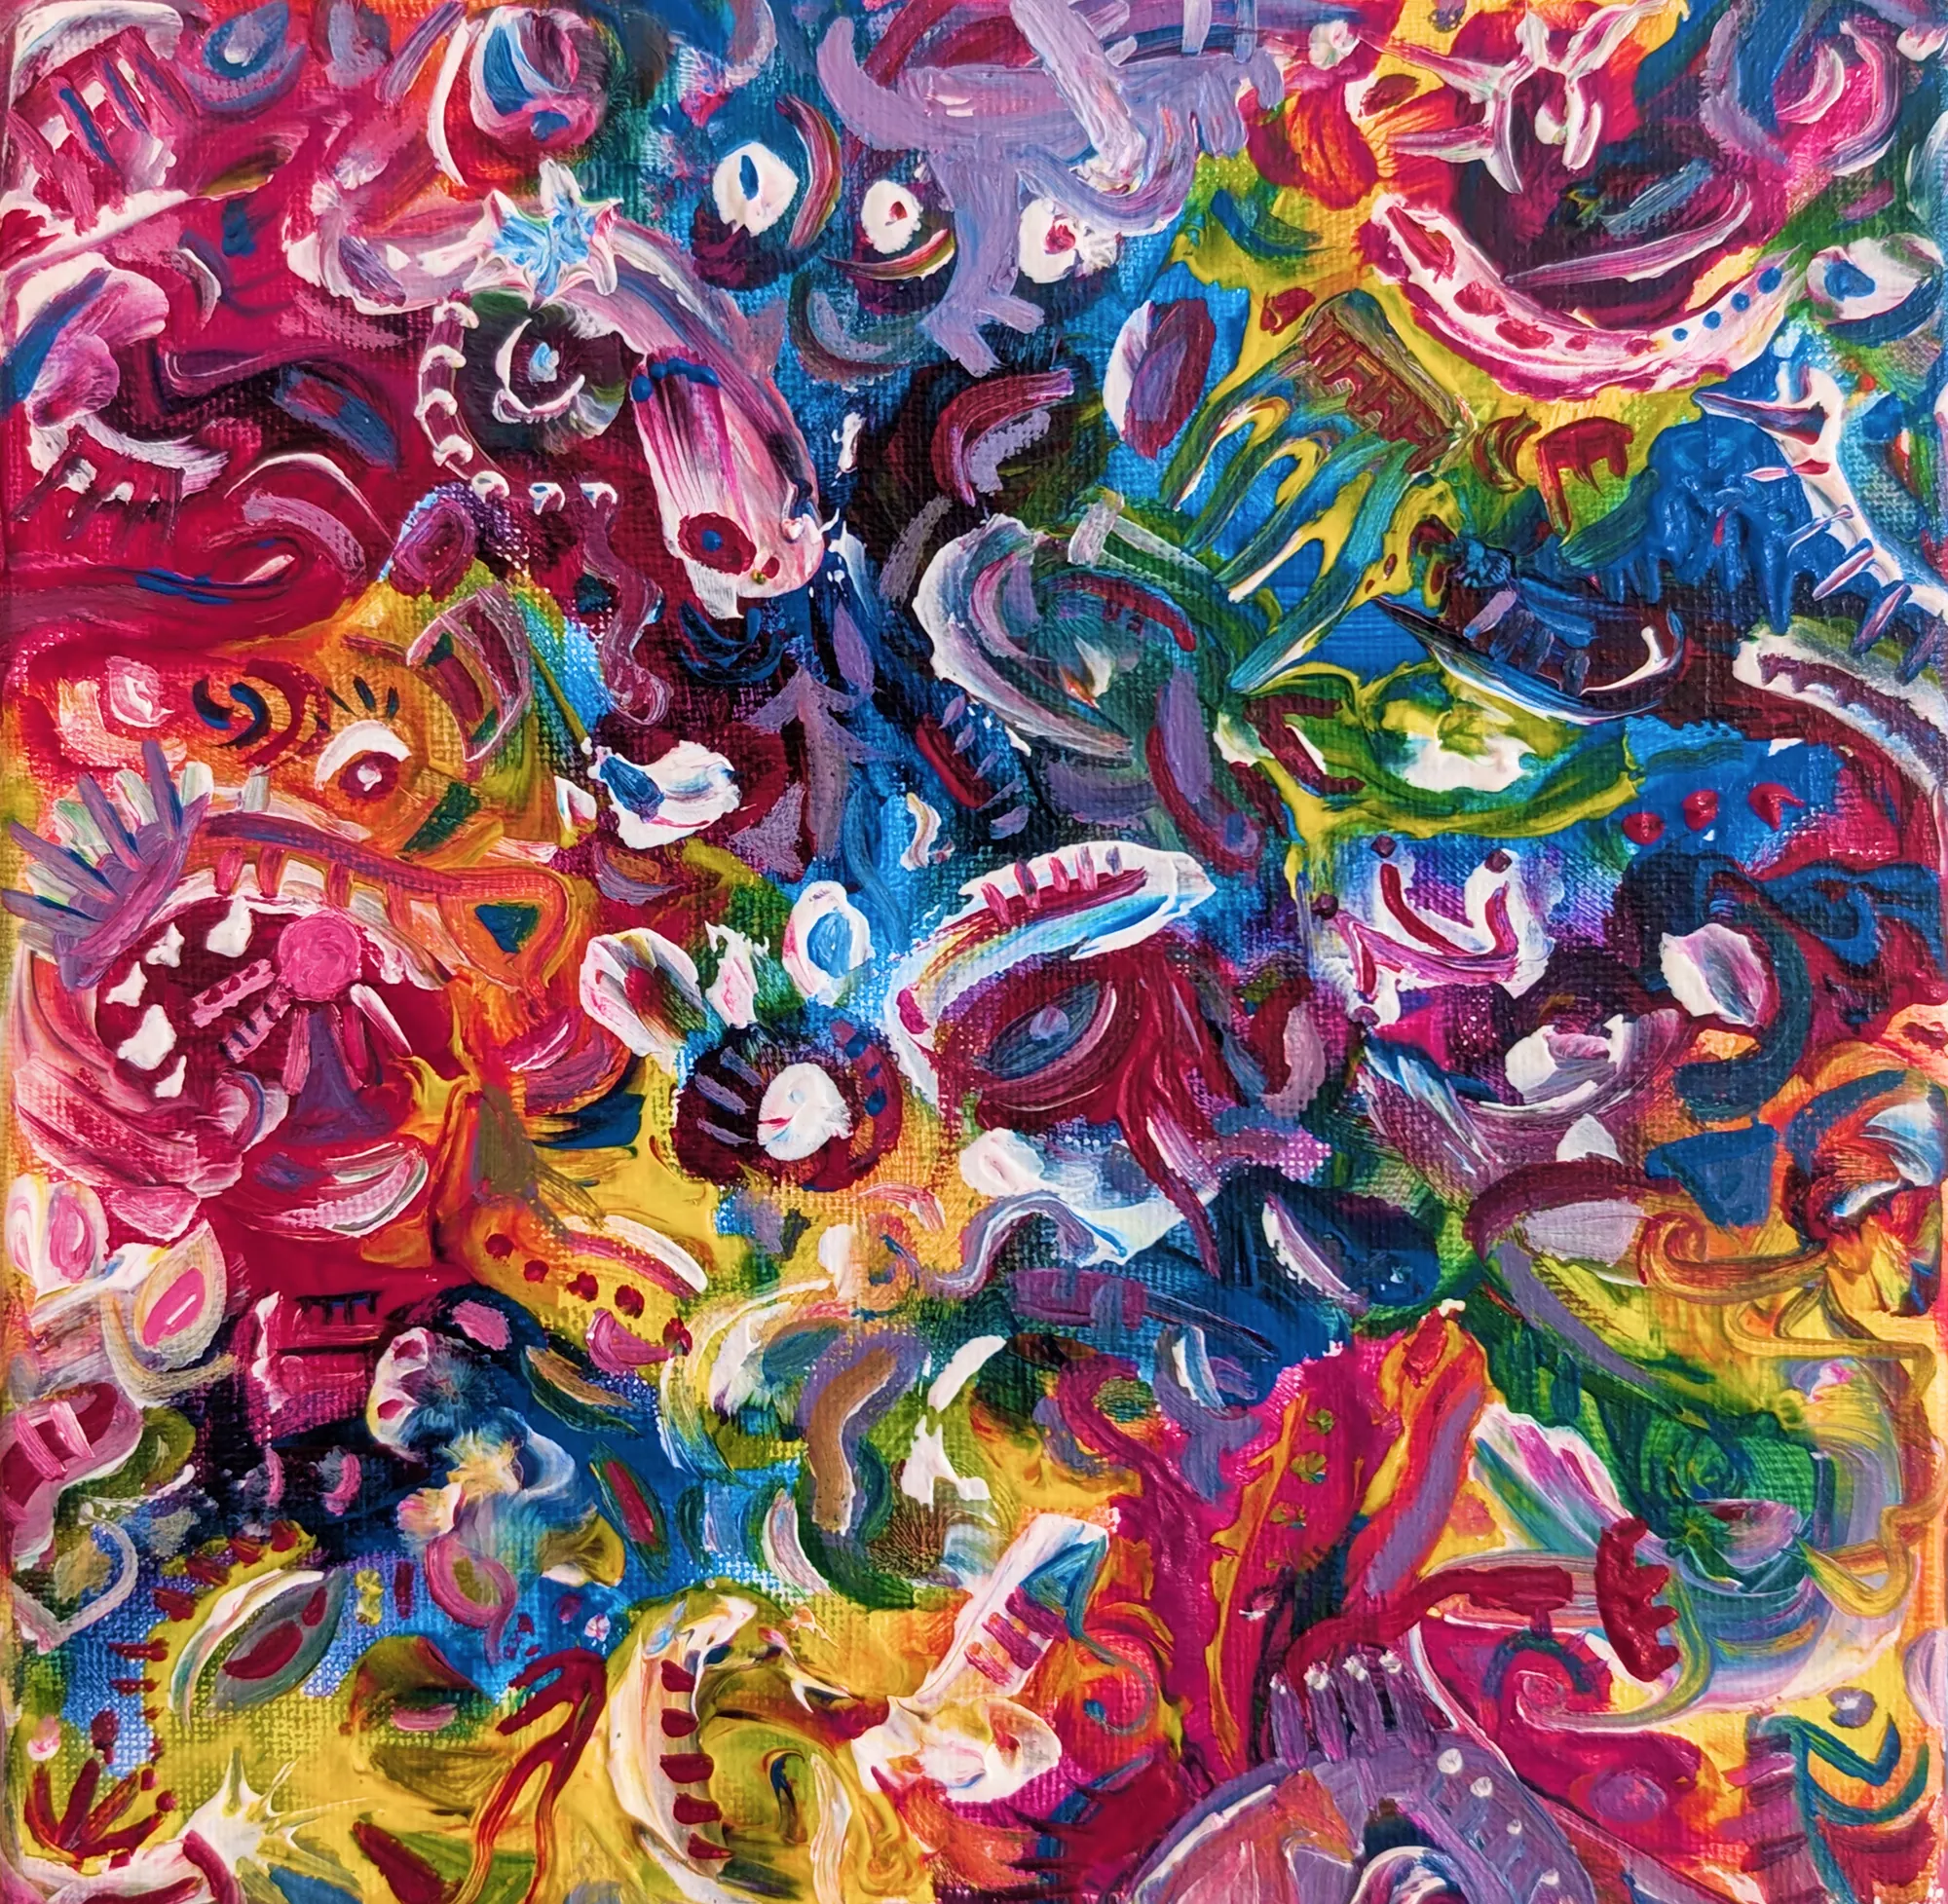
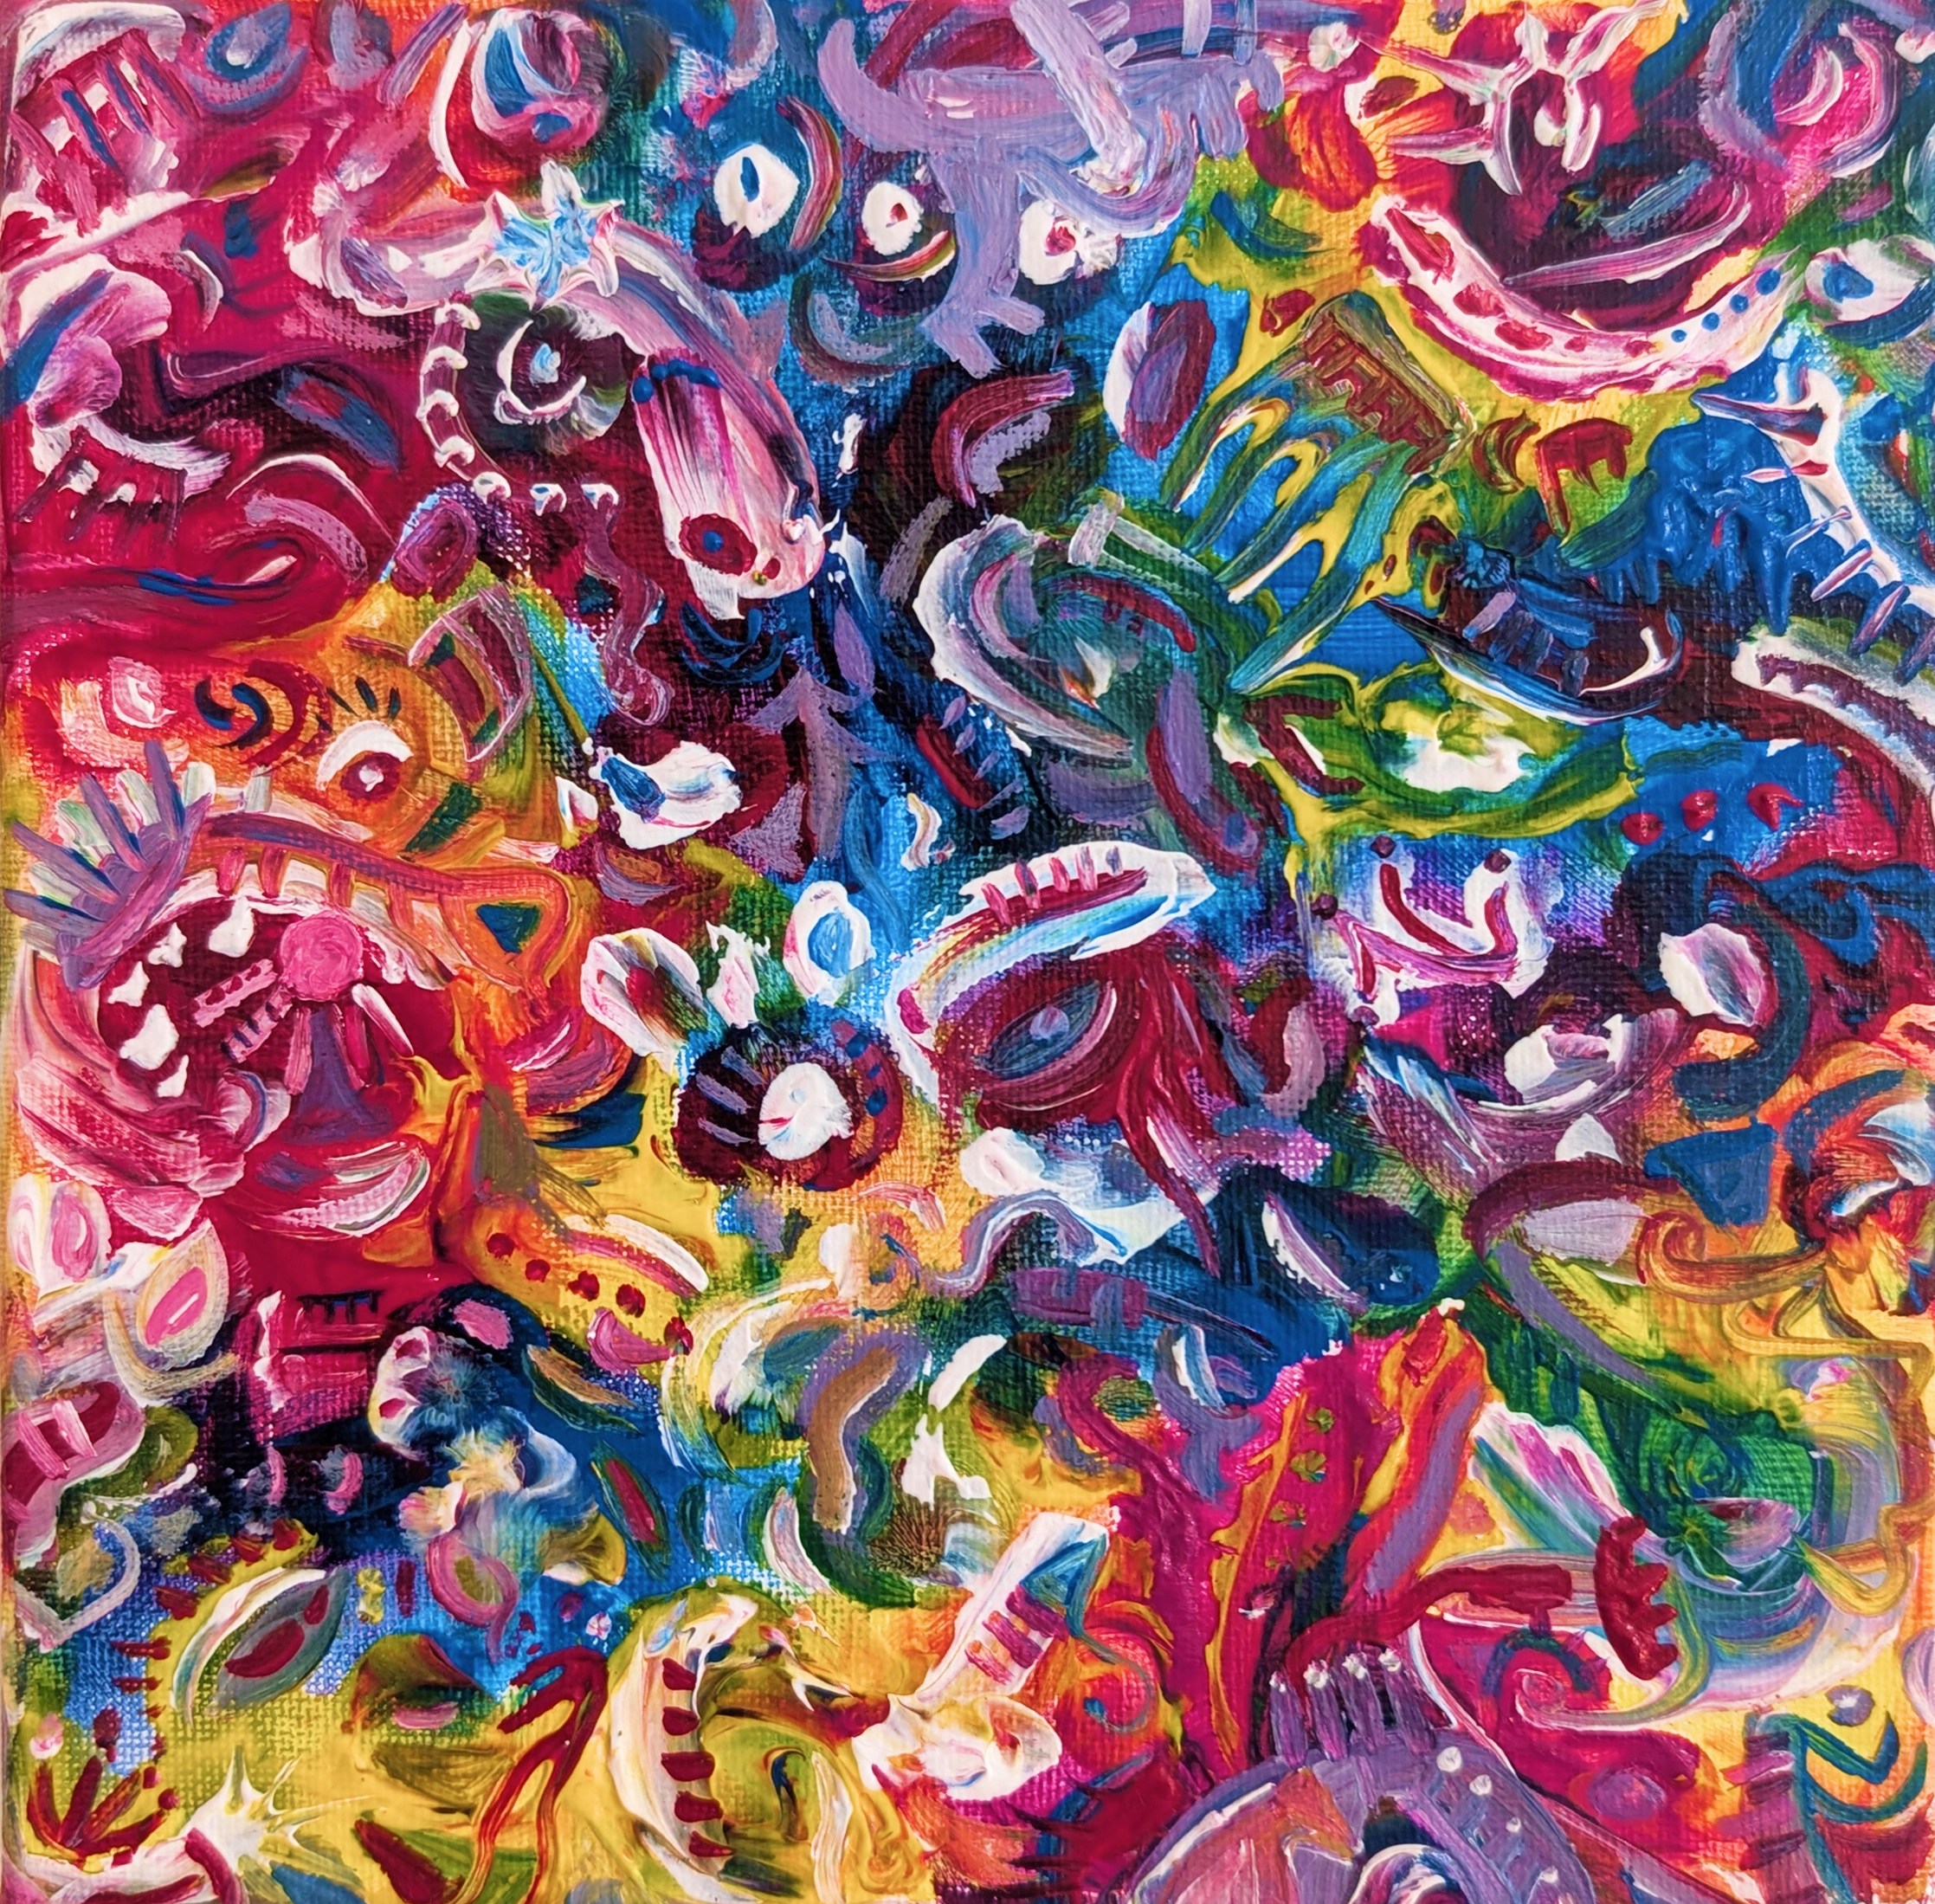
feat: image quality, sizes, lightbox, and slider improvements

diff --git a/components/ImageSlider.js b/components/ImageSlider.js
@@ -2,23 +2,20 @@ import { useState, useRef, useEffect } from 'react';
 import Image from 'next/image';
 import { ZoomIn } from 'lucide-react';
 
-/**
- * ImageSlider — main image + thumbnail strip.
- * If only one image is provided, renders it without any controls.
- *
- * @param {string[]} images  - Array of image URLs/paths
- * @param {string}   alt     - Alt text for the main image
- */
-const SWIPE_THRESHOLD = 50; // px needed to count as a swipe
+const SWIPE_THRESHOLD = 50; // px needed to commit to a slide change
 
 export default function ImageSlider({ images, alt, onImageClick }) {
-  const [current, setCurrent] = useState(0);
-  const [isLg, setIsLg] = useState(false);
-  const stripRef = useRef(null);
-  const thumbRefs = useRef([]);
-  const imageContainerRef = useRef(null);
-  const swipeStart = useRef(null); // { x, y }
-  const swipeDir  = useRef(null);  // null | 'h' | 'v'
+  const [current, setCurrent]   = useState(0);
+  const [isLg, setIsLg]         = useState(false);
+  const [dragX, setDragX]       = useState(0);
+  const [dragging, setDragging] = useState(false);
+
+  const stripRef    = useRef(null);
+  const thumbRefs   = useRef([]);
+  const trackRef    = useRef(null);
+  const swipeStart  = useRef(null); // { x, y }
+  const swipeDir    = useRef(null); // null | 'h' | 'v'
+  const didDrag     = useRef(false);
 
   useEffect(() => {
     const mq = window.matchMedia('(min-width: 1024px)');
@@ -35,20 +32,26 @@ export default function ImageSlider({ images, alt, onImageClick }) {
     }
   }, [current]);
 
-  // Non-passive touchmove listener so we can preventDefault on horizontal swipes
-  // without blocking vertical page scroll when the user is scrolling up/down.
+  // Non-passive listener so we can preventDefault on horizontal swipes
+  // without blocking vertical page scrolling.
   useEffect(() => {
-    const el = imageContainerRef.current;
+    const el = trackRef.current;
     if (!el || !images || images.length <= 1) return;
 
     function onTouchMove(e) {
       if (!swipeStart.current) return;
       const dx = e.touches[0].clientX - swipeStart.current.x;
       const dy = e.touches[0].clientY - swipeStart.current.y;
+
       if (swipeDir.current === null && (Math.abs(dx) > 5 || Math.abs(dy) > 5)) {
         swipeDir.current = Math.abs(dx) > Math.abs(dy) ? 'h' : 'v';
       }
-      if (swipeDir.current === 'h') e.preventDefault();
+
+      if (swipeDir.current === 'h') {
+        e.preventDefault();
+        didDrag.current = true;
+        setDragX(dx);
+      }
     }
 
     el.addEventListener('touchmove', onTouchMove, { passive: false });
@@ -59,54 +62,76 @@ export default function ImageSlider({ images, alt, onImageClick }) {
 
   const hasManyImages = images.length > 1;
 
-  function prev() {
-    setCurrent((i) => (i - 1 + images.length) % images.length);
-  }
-
-  function next() {
-    setCurrent((i) => (i + 1) % images.length);
+  function goTo(i) {
+    setCurrent(Math.max(0, Math.min(images.length - 1, i)));
+    setDragX(0);
+    setDragging(false);
   }
 
   function handleTouchStart(e) {
+    if (!hasManyImages) return;
     swipeStart.current = { x: e.touches[0].clientX, y: e.touches[0].clientY };
-    swipeDir.current = null;
+    swipeDir.current   = null;
+    didDrag.current    = false;
+    setDragging(true);
   }
 
   function handleTouchEnd(e) {
-    if (!swipeStart.current || swipeDir.current !== 'h') {
-      swipeStart.current = null;
-      swipeDir.current = null;
-      return;
-    }
+    if (!swipeStart.current) { setDragging(false); return; }
     const dx = e.changedTouches[0].clientX - swipeStart.current.x;
-    if (dx < -SWIPE_THRESHOLD) next();
-    else if (dx > SWIPE_THRESHOLD) prev();
+
+    if (swipeDir.current === 'h') {
+      if      (dx < -SWIPE_THRESHOLD && current < images.length - 1) goTo(current + 1);
+      else if (dx >  SWIPE_THRESHOLD && current > 0)                  goTo(current - 1);
+      else { setDragX(0); setDragging(false); }
+    } else {
+      setDragX(0);
+      setDragging(false);
+    }
+
     swipeStart.current = null;
-    swipeDir.current = null;
+    swipeDir.current   = null;
   }
 
   return (
     <div className="flex flex-col gap-3">
       {/* ── Main image ─────────────────────────────────────────────── */}
       <div
-        ref={imageContainerRef}
-        className="relative w-full aspect-[3/4] overflow-hidden group"
+        ref={trackRef}
+        className="relative w-full aspect-[3/4] max-h-[600px] overflow-hidden group"
         onTouchStart={handleTouchStart}
         onTouchEnd={handleTouchEnd}
       >
-        <Image
-          key={images[current]}
-          src={images[current]}
-          alt={alt}
-          fill
-          className="object-cover transition-opacity duration-300 cursor-zoom-in"
-          sizes="(max-width: 768px) 100vw, calc(100vw - 96px)"
-          quality={current === 0 && isLg ? 85 : 60}
-          priority={current === 0}
-          onClick={() => onImageClick?.(images[current])}
-        />
+        {/* Sliding track — all slides sit side-by-side and translate together */}
+        <div
+          className="absolute inset-0 flex"
+          style={{
+            transform:  `translateX(calc(${-current * 100}% + ${dragX}px))`,
+            transition: dragging ? 'none' : 'transform 0.35s cubic-bezier(0.25, 0.46, 0.45, 0.94)',
+            willChange: 'transform',
+          }}
+        >
+          {images.map((src, i) => (
+            <div
+              key={src}
+              className="relative min-w-full h-full"
+              onClick={() => { if (!didDrag.current) onImageClick?.(src); }}
+            >
+              <Image
+                src={src}
+                alt={alt}
+                fill
+                className="object-cover cursor-zoom-in"
+                sizes="(max-width: 768px) 100vw, calc(100vw - 96px)"
+                quality={i === 0 && isLg ? 85 : 60}
+                priority={i === 0}
+                loading={i === 0 ? 'eager' : 'lazy'}
+              />
+            </div>
+          ))}
+        </div>
 
-        {/* Magnifier button — always visible on mobile, hover-only on lg+ */}
+        {/* Magnifier button */}
         {onImageClick && (
           <button
             onClick={() => onImageClick(images[current])}
@@ -117,34 +142,14 @@ export default function ImageSlider({ images, alt, onImageClick }) {
           </button>
         )}
 
-        {/* Prev / Next arrows — only shown when multiple images */}
         {hasManyImages && (
           <>
-            <button
-              onClick={prev}
-              aria-label="Previous image"
-              className="absolute left-4 top-1/2 -translate-y-1/2 w-9 h-9 flex items-center justify-center bg-bg-main/80 hover:bg-bg-main transition-colors opacity-0 group-hover:opacity-100"
-            >
-              <svg width="16" height="16" viewBox="0 0 16 16" fill="none">
-                <path d="M10 3L5 8L10 13" stroke="#1A1917" strokeWidth="1.5" strokeLinecap="round" strokeLinejoin="round"/>
-              </svg>
-            </button>
-            <button
-              onClick={next}
-              aria-label="Next image"
-              className="absolute right-4 top-1/2 -translate-y-1/2 w-9 h-9 flex items-center justify-center bg-bg-main/80 hover:bg-bg-main transition-colors opacity-0 group-hover:opacity-100"
-            >
-              <svg width="16" height="16" viewBox="0 0 16 16" fill="none">
-                <path d="M6 3L11 8L6 13" stroke="#1A1917" strokeWidth="1.5" strokeLinecap="round" strokeLinejoin="round"/>
-              </svg>
-            </button>
-
-            {/* Dot counter */}
-            <div className="absolute bottom-4 left-1/2 -translate-x-1/2 flex gap-1.5">
+            {/* Dot indicators */}
+            <div className="absolute bottom-4 left-1/2 -translate-x-1/2 flex gap-1.5 z-10">
               {images.map((_, i) => (
                 <button
                   key={i}
-                  onClick={() => setCurrent(i)}
+                  onClick={() => goTo(i)}
                   aria-label={`Go to image ${i + 1}`}
                   className={`w-1.5 h-1.5 rounded-full transition-colors ${
                     i === current ? 'bg-text-primary' : 'bg-text-primary/30'
@@ -156,14 +161,14 @@ export default function ImageSlider({ images, alt, onImageClick }) {
         )}
       </div>
 
-      {/* ── Thumbnail strip — only shown when multiple images ──────── */}
+      {/* ── Thumbnail strip ─────────────────────────────────────────── */}
       {hasManyImages && (
         <div ref={stripRef} className="flex gap-2 overflow-x-auto py-1">
           {images.map((src, i) => (
             <button
               key={i}
               ref={el => thumbRefs.current[i] = el}
-              onClick={() => setCurrent(i)}
+              onClick={() => goTo(i)}
               aria-label={`View image ${i + 1}`}
               className={`relative flex-shrink-0 w-[80px] h-[80px] md:w-[100px] md:h-[100px] transition-opacity ${
                 i === current ? 'opacity-100 ring-2 ring-accent ring-offset-1 ring-offset-bg-main' : 'opacity-50 hover:opacity-75'

diff --git a/components/ImageLightbox.js b/components/ImageLightbox.js
@@ -40,31 +40,16 @@ export default function ImageLightbox({ src, images = [], alt, onClose }) {
         <X size={24} />
       </button>
 
-      {/* Mobile (< md): single image */}
-      <div
-        className="md:hidden h-full flex items-center justify-center px-4 cursor-zoom-out"
-        onClick={onClose}
-      >
-        <div
-          className="relative w-full max-h-[90vh]"
-          style={{ height: '90vh' }}
-          onClick={(e) => e.stopPropagation()}
-        >
-          <Image src={src} alt={alt} fill className="object-contain" sizes="100vw" />
-        </div>
-      </div>
-
-      {/* md+: all images stacked, scrollable */}
+      {/* All sizes: all images stacked, scrollable, jumps to selected */}
       <div
         ref={containerRef}
-        className="hidden md:flex md:flex-col h-full overflow-y-auto items-center py-12 gap-3 px-6"
+        className="flex flex-col h-full overflow-y-auto items-center py-12 gap-3 px-6"
       >
         {allImages.map((imgSrc, i) => (
           <div
             key={i}
             ref={imgSrc === src ? selectedRef : null}
-            className="relative w-full max-w-4xl flex-shrink-0 cursor-zoom-out"
-            style={{ height: '100vh' }}
+            className="relative w-full max-w-4xl flex-shrink-0 cursor-zoom-out aspect-[3/4] md:h-[90vh]"
             onClick={onClose}
           >
             <Image
@@ -72,7 +57,7 @@ export default function ImageLightbox({ src, images = [], alt, onClose }) {
               alt={`${alt} — ${i + 1}`}
               fill
               className="object-contain"
-              sizes="(max-width: 1024px) 100vw, 896px"
+              sizes="100vw"
               onClick={(e) => e.stopPropagation()}
             />
           </div>

diff --git a/components/Hero.js b/components/Hero.js
@@ -16,7 +16,7 @@ export default function Hero() {
         <h1
           className="font-sans font-normal text-text-primary leading-tight95 w-full md:max-w-[66%]"
           style={{
-            fontSize:      'clamp(35px, 5.5vw, 80px)',
+            fontSize:      'clamp(37px, 5.5vw, 80px)',
             letterSpacing: 'clamp(-px, -0.15vw, -2px)',
             lineHeight:    1,
           }}
@@ -34,14 +34,14 @@ export default function Hero() {
       </div>
 
       {/* ── Hero image ───────────────────────────────────────────────── */}
-      <div className="relative w-full h-[250px] md:h-[610px] overflow-hidden">
+      <div className="relative w-full h-[250px] md:h-[350px] lg:h-[500px] xl:h-[550px] 2xl:h-[700px] overflow-hidden">
         <Image
           src="/hero-img.webp"
           alt="Abstract painting by Ester Batllori"
           fill
           className="object-cover"
-          sizes="100vw"
-          quality={50}
+          sizes="(min-width: 1536px) 2235px, (min-width: 1024px) 1920px, 100vw"
+          quality={100}
           priority
           fetchPriority="high"
         />

diff --git a/pages/[artworkId].js b/pages/[artworkId].js
@@ -126,7 +126,7 @@ export default function ArtworkDetail({ artwork, collection, related = [] }) {
             {/* md to lg: single column stack */}
             <div className="hidden md:flex lg:hidden flex-col gap-[6px]">
               {(artwork.images ?? []).map((src, i) => (
-                <div key={i} className="relative w-full aspect-square overflow-hidden group cursor-zoom-in" onClick={() => setLightboxSrc(src)}>
+                <div key={i} className="relative w-full aspect-[3/4] overflow-hidden group cursor-zoom-in" onClick={() => setLightboxSrc(src)}>
                   <Image src={src} alt={artwork.title} fill className="object-cover" sizes="50vw" quality={60} priority={i === 0} />
                   <button
                     onClick={(e) => { e.stopPropagation(); setLightboxSrc(src); }}
@@ -142,8 +142,8 @@ export default function ArtworkDetail({ artwork, collection, related = [] }) {
             {/* lg+: 1-over-N×2 image grid */}
             <div className="hidden lg:flex flex-col gap-[6px]">
               {artwork.images?.[0] && (
-                <div className="relative w-full max-w-[650px] 2xl:max-w-[670px] mx-auto aspect-[2/3] overflow-hidden group cursor-zoom-in" onClick={() => setLightboxSrc(artwork.images[0])}>
-                  <Image src={artwork.images[0]} alt={artwork.title} fill className="object-cover" sizes="650px" quality={100} priority />
+                <div className="relative w-full max-w-[640px] 2xl:max-w-[670px] mx-auto aspect-[3/4] overflow-hidden group cursor-zoom-in" onClick={() => setLightboxSrc(artwork.images[0])}>
+                  <Image src={artwork.images[0]} alt={artwork.title} fill className="object-cover" sizes="(min-width: 1024px) 1920px, 100vw" quality={100} priority />
                   <button
                     onClick={(e) => { e.stopPropagation(); setLightboxSrc(artwork.images[0]); }}
                     aria-label="View full screen"

diff --git a/components/ArtworkCard.js b/components/ArtworkCard.js
@@ -24,7 +24,7 @@ export default function ArtworkCard({ artwork, imageHeight, sizes }) {
       aria-label={`View ${title}`}
     >
       {/* ── Artwork image ─────────────────────────────────────────────── */}
-      <div className={`relative w-full overflow-hidden ${imageHeight ?? 'h-[340px] 2xl:h-[400px]'}`}>
+      <div className={`relative w-full overflow-hidden max-h-[410px] ${imageHeight ?? 'aspect-[3/4]'}`}>
         <Image
           src={image_url}
           alt={title}

diff --git a/components/CollectionCard.js b/components/CollectionCard.js
@@ -20,7 +20,7 @@ export default function CollectionCard({ collection }) {
       aria-label={`View ${name} collection`}
     >
       {/* ── Cover image ──────────────────────────────────────────────── */}
-      <div className="relative w-full h-[340px] lg:h-[360px] overflow-hidden">
+      <div className="relative w-full aspect-[3/4] overflow-hidden">
         {cover_image_url ? (
           <Image
             src={cover_image_url}

diff --git a/components/UniquePieces.js b/components/UniquePieces.js
@@ -27,7 +27,7 @@ export default function UniquePieces({ artworks = [] }) {
       </div>
 
       {/* ── Grid ───────────────────────────────────────────────────────── */}
-      <div className="grid grid-cols-1 sm:grid-cols-2 lg:grid-cols-3 xl:grid-cols-4 gap-9 md:gap-[40px]">
+      <div className="grid grid-cols-1 sm:grid-cols-2 lg:grid-cols-3 xl:grid-cols-4 gap-9">
         {sorted.map((artwork) => (
           <ArtworkCard key={artwork.id} artwork={artwork} />
         ))}

diff --git a/next.config.js b/next.config.js
@@ -6,7 +6,7 @@ const nextConfig = {
     formats: ['image/webp'],
     minimumCacheTTL: 86400, // 1 day
     qualities: [50, 60, 85, 100],
-    deviceSizes: [640, 1080, 1920],
+    deviceSizes: [640, 1080, 1920, 2235],
     imageSizes: [128, 384],
     remotePatterns: [
       {